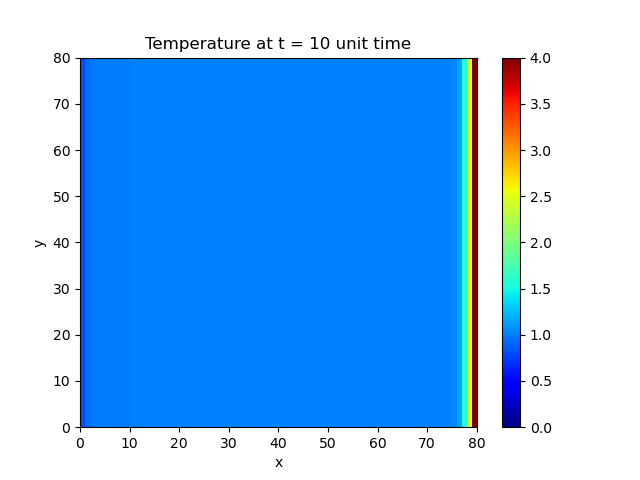
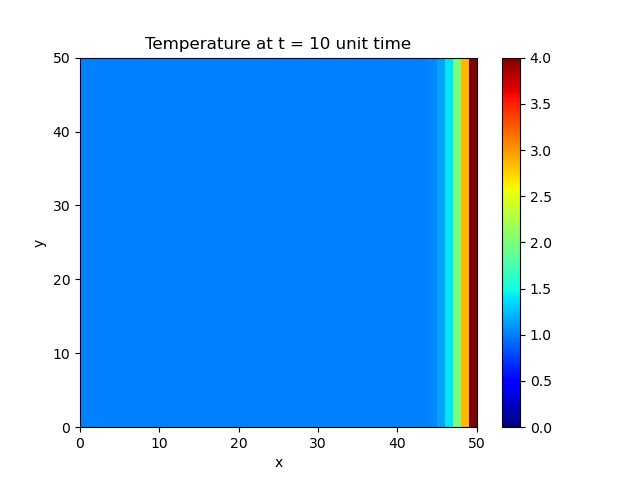
T prediction

diff --git a/src/model/EnKFmodel.py b/src/model/EnKFmodel.py
@@ -4,6 +4,7 @@ from src.helper_funcs.early_stopping import early_stopping
 import torch.linalg as linalg
 import matplotlib.pyplot as plt
 import numpy as np
+from src.simulation.set_up_model import HeatModel2D
 
 class EnKFmodel():
 	def __init__(self,heatmod,stopping,image_path):
@@ -85,7 +86,7 @@ class EnKFmodel():
 			# update
 			for j in range(self.ensembleSize):
 				temp = delta_Tk-torch.matmul(Hk,self.En[:,j])
-				self.En[:,j] = self.En[:,j] + torch.matmul(K,temp)
+				self.En[:,j] = self.En[:,j] + 0.5*torch.matmul(K,temp)
 
 			self.m1,self.m2 = moments(self.En)
 
@@ -101,6 +102,10 @@ class EnKFmodel():
 		image_path=self.image_path
 
 		# write information to file
+		f1 = open('notes.txt', "a")
+		theta_hat = np.array([c.numpy() for c in self.theta_hat])
+		f1.write('%f,%f'%(theta_hat[-1,0],theta_hat[-1,1]))
+
 		f = open(image_path+"/result.txt", "w")
 		f.write("New record appended:")
 		f.write('\n')
@@ -115,6 +120,16 @@ class EnKFmodel():
 		f.write("Misfit: %f, %f"%(self.M[-1].numpy()[0],self.M[-1].numpy()[1]))
 		f.write('\n')
 		f.write("E,R: %f, %f"%(self.E[-1].numpy(),self.R[-1].numpy()))
+		f.write('\n')
+		if self.theta[0].numpy()>1e-3:
+			m0 = (self.M[-1].numpy()[0])/(self.theta[0].numpy())
+		else:
+			m0 = (self.M[-1].numpy()[0])/(1e-3)
+		if self.theta[1].numpy()>1e-3:
+			m1 = (self.M[-1].numpy()[1])/(self.theta[1].numpy())
+		else:
+			m1 = (self.M[-1].numpy()[1])/(1e-3)
+		f.write("Relative Error: %f, %f"%(m0,m1))
 		f.write('\n')
 		f.close()
 
@@ -151,7 +166,7 @@ class EnKFmodel():
 
 		# plot reconstruction of theta
 		f, ax1 = plt.subplots(2,1,figsize=(20,10))
-		theta_hat = np.array([c.numpy() for c in self.theta_hat])
+		# theta_hat = np.array([c.numpy() for c in self.theta_hat])
 		for idx,ax in enumerate(ax1):
 			ax.set_yscale('symlog')
 			ax.plot(torch.linspace(0,iter+1,iter+2),theta_hat[:,idx],'k-')
@@ -160,5 +175,36 @@ class EnKFmodel():
 			ax.set_ylabel('theta_hat[%d]'%(idx))
 			ax.set_title('Reconstruction of theta')
 		plt.savefig(image_path+'/estimation/ReconstructionOfTheta.jpg',bbox_inches='tight')
+
+		return
+
+	def temperature_predict(self):
+
+		N,Nt = self.heatmod.N, self.heatmod.Nt
+		mode = 1
+		theta_hat = np.array([c.numpy() for c in self.theta_hat])
+		r,r2 = theta_hat[-1,0],theta_hat[-1,1]
+		r = float(r)
+		r2 = float(r2)
+		pred_heatmod = HeatModel2D(N, Nt, None, None, None, None, None,mode,r,r2)
+		pred_heatmod.check_numerical()
+		T0 = self.heatmod.observations[:,-1].numpy()
+		pred_heatmod.compute_all_T(T0)
+		pred_heatmod.generate_animation(self.image_path+'/estimation')
+		
+		T_predict = np.concatenate(pred_heatmod.T_all).reshape(Nt+1,N**2)
+		T_predict = torch.from_numpy(T_predict)
+
+		T_all = np.concatenate(self.heatmod.T_all).reshape(Nt+1,N**2)
+		T_all = torch.from_numpy(T_all)
+
+		r = T_predict - T_all
+		R = torch.div(pow(linalg.vector_norm(r,dim=0),2), pow(linalg.vector_norm(T_all,dim=0),2))
+		plt.figure()
+		plt.plot(torch.linspace(0,Nt+1,Nt+2),R.numpy())
+		plt.ylabel('error')
+		plt.xlabel('time')
+		plt.title('Temperature prediction error')
+		plt.savefig(self.image_path+'/estimation/T_predict_error.jpg',bbox_inches='tight')
 
 		return

diff --git a/src/simulation/set_up_model.py b/src/simulation/set_up_model.py
@@ -11,19 +11,31 @@ from matplotlib.animation import FuncAnimation
 
 class HeatModel2D:
 
-	def __init__(self, N, Nt, mathcal_K, a, b, c, Q_in):
-		self.N = N
-		self.Nt = Nt
-		h = 1/(N-1)
-		ht = 1/Nt
-		self.mathcal_K = mathcal_K
-		self.a = a
-		self.b = b
-		self.c = c
-		self.Q_in = Q_in
-		self.r = (mathcal_K*ht)/(a * (h**2))
-		self.r2 = (c*ht)/(a*(h**2))
-		self.T_all = []
+	def __init__(self, N, Nt, mathcal_K, a, b, c, Q_in,mode,r,r2):
+
+		if mode == 0:
+			self.N = N
+			self.Nt = Nt
+			h = 1/(N-1)
+			ht = 1/Nt
+			self.mathcal_K = mathcal_K
+			self.a = a
+			self.b = b
+			self.c = c
+			self.Q_in = Q_in
+			self.r = (mathcal_K*ht)/(a * (h**2))
+			self.r2 = (c*ht)/(a*(h**2))
+			self.T_all = []
+		elif mode == 1:
+			self.N = N
+			self.Nt = Nt
+			h = 1/(N-1)
+			ht = 1/Nt
+			self.r = r
+			self.r2 = r2
+			self.T_all = []
+		else:
+			raise ValueError('mode should be 0/1')
 
 	def check_numerical(self):
 		if 1-4*(self.r) <= 0 or 1-3*(self.r)+(self.r2)>=1:
@@ -108,7 +120,7 @@ class HeatModel2D:
 	def compute_delta_T(self, T):
 
 		# Create a new sparse PETSc matrix, fill it and then assemble it
-		l = (self.N)**2
+		# l = (self.N)**2
 		r = self.r
 		r2 = self.r2
 		A = self.A
@@ -116,19 +128,22 @@ class HeatModel2D:
 		C = self.C
 
 		temp = r*A + r2*B
-		delta_T  = temp*T + r2*C
+		delta_T = temp*T + r2*C
 
 		return delta_T
 
 
-	def compute_all_T(self):
+	def compute_all_T(self,T0):
 
 		#initialize
 		N = self.N
 		l = N**2
-
-		T = PETSc.Vec().createSeq(l)
-		T.setArray(np.ones(l))
+		if T0 == None:
+			T = PETSc.Vec().createSeq(l)
+			T.setArray(np.ones(l))
+		else:
+			T = PETSc.Vec().createSeq(l)
+			T.setArray(T0)
 
 		for i in range(N):
 			T.setValue((i+1)*N-1,4)
@@ -212,4 +227,24 @@ class HeatModel2D:
 
 		anim = FuncAnimation(plt.figure(), animate, interval=500, frames=self.Nt+1, repeat=False)
 		anim.save(image_path+'/observations.gif', writer='imagemagick', fps=60)
+		
+		def pics():
+		# k from 0 to Nt
+			for k in range(self.Nt+1):
+				if k%5 == 0:
+					plt.clf()
+
+					plt.title("Temperature at t = %d unit time"%(k))
+					plt.xlabel("x")
+					plt.ylabel("y")
+
+					C = self.observations[:,k].reshape(self.N,self.N)
+
+					# This is to plot u_k (u at time-step k)
+					plt.pcolormesh(C, cmap=plt.cm.jet, vmin=0,vmax=4)
+					plt.colorbar()
+					plt.savefig(image_path+'/observations/T=%d'%(k))
+
+			return
+		pics()
 		return

diff --git a/main.py b/main.py
@@ -8,7 +8,8 @@ if __name__ == "__main__":
 	N = 50
 	Nt = 100
 	mathcal_K = 0.2
-	a,b,c = 25,20,-0.015
+	# a,b,c = 25,20,-0.015
+	a,b,c = 25,20,0
 	Q_in = 0
 
 	noiselevel = 0.1
@@ -17,17 +18,17 @@ if __name__ == "__main__":
 
 	# create application context
 	# and PETSc nonlinear solver
-	heatmod = HeatModel2D(N, Nt, mathcal_K, a, b, c, Q_in)
+	heatmod = HeatModel2D(N, Nt, mathcal_K, a, b, c, Q_in,mode=0,r=None,r2=None)
 	heatmod.check_numerical()
-	heatmod.compute_all_T()
+	heatmod.compute_all_T(T0=None)
 	heatmod.generate_animation(image_path+'/simulation')
 	print("simulation done! with r : %.3f, r2 : %.3f"%(heatmod.r,heatmod.r2))
 	heatmod.add_noise(noiselevel,image_path+'/simulation')
 	print('noise added, with noiselevel= %f'%(noiselevel))
 
 	# set up ensemble
-	stopping = 'discrepancy'
-	# stopping = 'none'
+	# stopping = 'discrepancy'
+	stopping = 'none'
 	model = EnKFmodel(heatmod,stopping,image_path)
 	ensembleSize = 50
 	initEnsemble = 'Random'
@@ -35,5 +36,6 @@ if __name__ == "__main__":
 	model.set_up_ensemble(ensembleSize)
 	# with timer.Timer('EnKF timer'):
 	model.update_ensemble()
+	model.temperature_predict()
 
 	

diff --git a/src/helper_funcs/moments.py b/src/helper_funcs/moments.py
@@ -10,7 +10,8 @@ def moments(En):
 	En = En.t()
 
 	m2 = torch.matmul(En[:,:,None],En[:,None,:])
-	m2 = torch.mean(m2,dim=0)*(l/(l-1))
+	m2 = torch.mean(m2,dim=0)
+	# *(l/(l-1))
 	
 	return m1,m2
 
